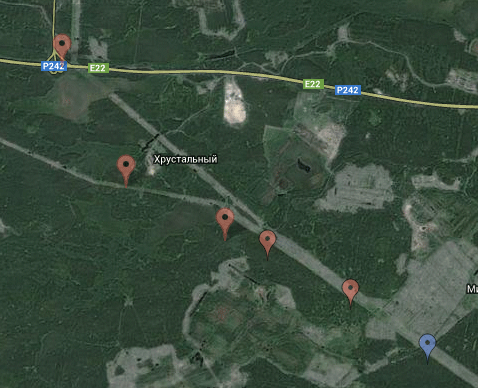
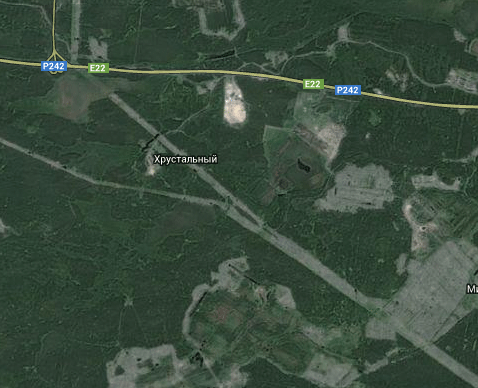
maps2 hq

diff --git a/main2hq.html b/main2hq.html
@@ -23,10 +23,10 @@
 <div class="map-canvas" id="map_canvas">
     <span style="bottom: 23px ; left: 417px;" data-map="pano_2-1-hq" class="map-canvas__point map-canvas__point_active"></span>
     <span  style="bottom: 78px ; left: 341px;" data-map="pano_2-2-hq" class="map-canvas__point"></span>
-    <span  style="top: 60px ; left: 90px;" data-map="pano_2-3-hq" class="map-canvas__point"></span>
-    <span  style="top: 50px ; left: 23px;" data-map="pano_2-4-hq" class="map-canvas__point"></span>
-    <span  style="top: 220px ; left: 37px;" data-map="pano_2-5-hq" class="map-canvas__point"></span>
-    <span  style="top: 130px ; left: 40px;" data-map="pano_2-6-hq" class="map-canvas__point"></span>
+    <span  style="bottom: 125px ; left: 261px;" data-map="pano_2-3-hq" class="map-canvas__point"></span>
+    <span  style="bottom: 146px ; left: 214px;" data-map="pano_2-4-hq" class="map-canvas__point"></span>
+    <span  style="bottom: 200px ; left: 117px;" data-map="pano_2-5-hq" class="map-canvas__point"></span>
+    <span  style="bottom: 320px ; left: 53px;" data-map="pano_2-6-hq" class="map-canvas__point"></span>
 </div>
 <div id="wrapper">
     <div id="scroller">
